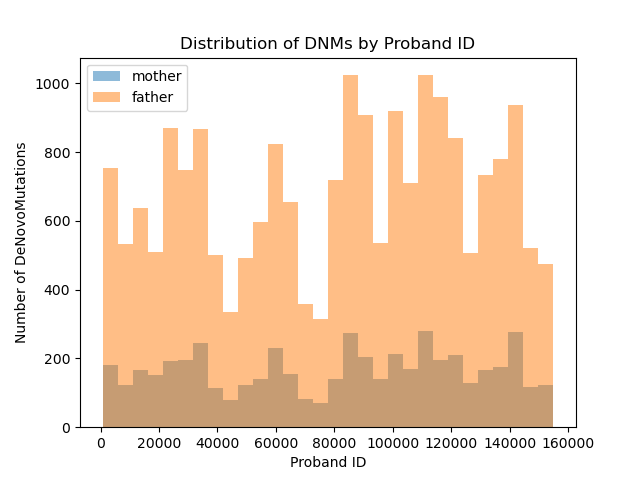
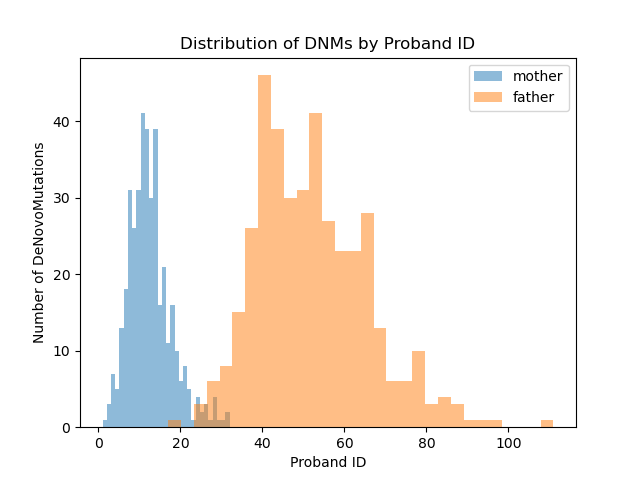
final answers for required hw

diff --git a/week1/linreg.py b/week1/linreg.py
@@ -59,25 +59,32 @@ plt.show()
 model = smf.ols(formula = "maternal_dnm ~ 1 + Mother_age", data = concat)
 results = model.fit()
 #print(results.summary())
+#print(results.pvalues)
 
 #step 2.3
 modelf = smf.ols(formula = "paternal_dnm ~ 1 + Father_age", data = concat)
 resultsf = modelf.fit()
 #print(resultsf.summary())
+#print(resultsf.pvalues)
 
 #step 2.4
 #in readme
 
 #step 2.5
 fig, cx = plt.subplots()
-cx.hist(df.loc[df["Phase_combined"] == "mother", "Proband_id"], bins = 30, label = "mother", alpha = 0.5)
-cx.hist(df.loc[df["Phase_combined"] == "father", "Proband_id"], bins = 30, label = "father", alpha = 0.5)
-cx.set_xlabel("Proband ID")
-cx.set_ylabel("Number of DeNovoMutations")
+cx.hist(count.loc[count["Phase_combined"] == "mother", "Count"], bins = 30, label = "mother", alpha = 0.5)
+cx.hist(count.loc[count["Phase_combined"] == "father", "Count"], bins = 30, label = "father", alpha = 0.5)
+cx.set_xlabel("Number of De Novo Mutations")
+cx.set_ylabel("Frequency (Number of Proband IDs)")
 cx.set_title("Distribution of DNMs by Proband ID")
 cx.legend()
 fig.savefig("ex2_c.png")
 plt.show()
+
+#step 2.6
+print(sps.ttest_ind(
+count.loc[count['Phase_combined'] == 'father','Count'],
+count.loc[count['Phase_combined'] == 'mother','Count']))
 
 
 

diff --git a/week1/README.md b/week1/README.md
@@ -1,5 +1,5 @@
 #2.2
-The maternal DNMs as a dependable variable of father age has a correlation of 0.38 with a p value of 6.87e-24 which suggests that with the increase of the father's age there is a 0.38x increase in the number of paternal de novo mutations. 
+The maternal DNMs as a dependable variable of mother age has a correlation of 0.38 with a p value of 6.87e-24 which suggests that with the increase of the mother's age there is a 0.38x increase in the number of maternal de novo mutations. 
 
 #2.3
 The paternal DNMs as a dependable variable of father age has a correlation of 1.35 with a p value of 1.55e-84 which suggests that with the increase of the father's age there is a 1.35x increase in the number of paternal de novo mutations. 
@@ -7,4 +7,5 @@ The paternal DNMs as a dependable variable of father age has a correlation of 1.
 #2.4
 1.3538 * 50.5 + 10.3263 = 78.69
 
-Q: what does the size of the relationship mean
+#2.6
+The t test found that between the mean of the female and male number of de novo mutations, the t statistic gave a value of 53.4 with a p value of 2.2e-264, which is significant. This t statistic value implies that there is a significant difference in the ratio of the mean of female vs male de novo mutation with the male number of de novo mutation significantly more than females. The two populations of female dnm vs male dnm is significantly different. 
